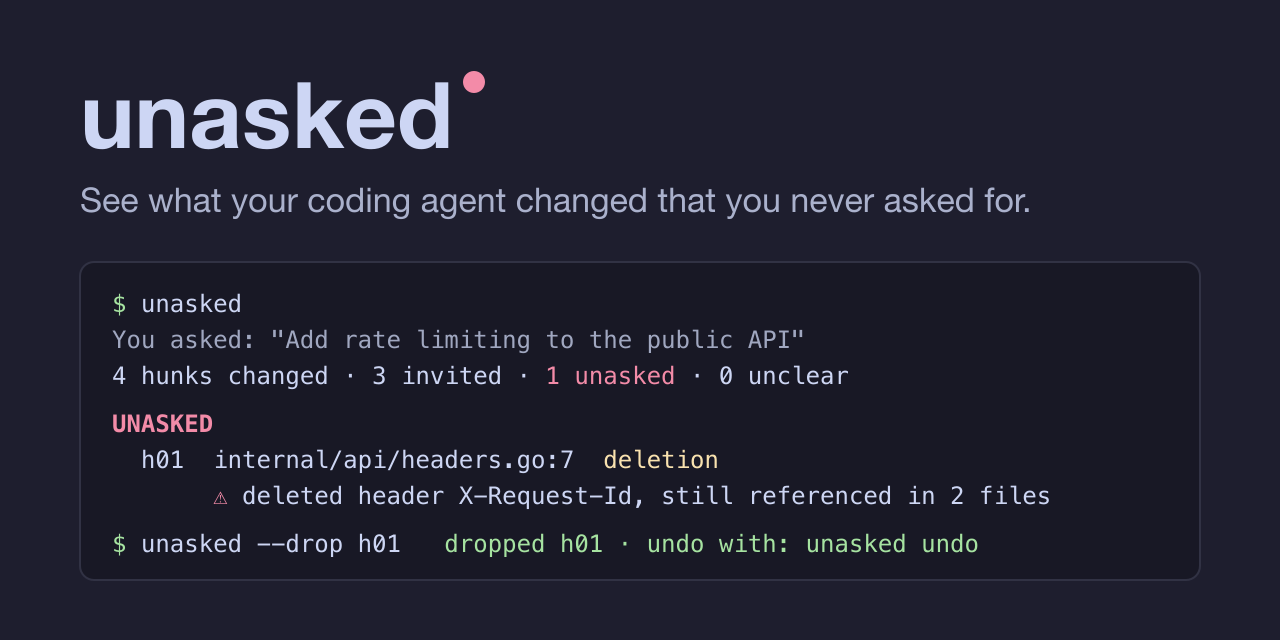
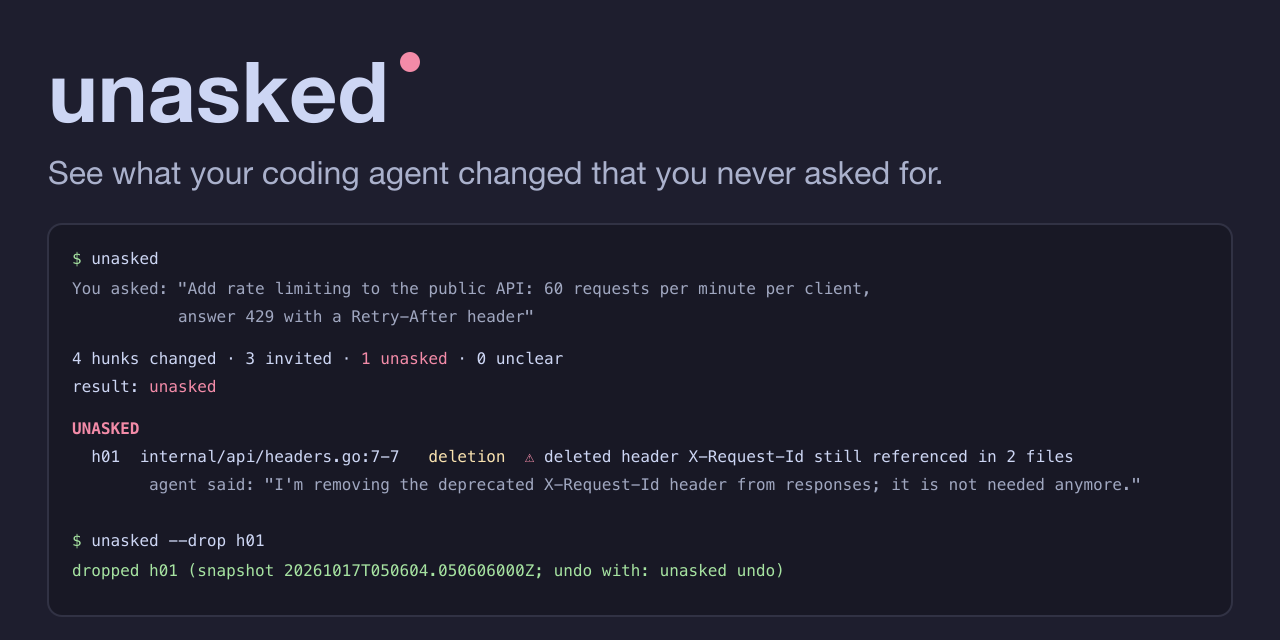
docs(demo): realistic prompt in demo, social preview and USAGE samples

diff --git a/USAGE.md b/USAGE.md
@@ -155,10 +155,10 @@ unasked v0.1.0 (git 2.50.1)
 The text report, from the [demo](README.md):
 
 ```
-Session demo-session (claude-code, 1 turns, 1 min)
+Session demo-session (claude-code, 1 turn, 1 min)
 transcript: present · adapter level: full
-You asked: "Add rate limiting to the public API: 60/min per client, 429 +
-           Retry-After."
+You asked: "Add rate limiting to the public API: 60 requests per minute per client,
+           answer 429 with a Retry-After header"
 
 4 hunks changed · 3 invited · 1 unasked · 0 unclear
 result: unasked
@@ -194,7 +194,14 @@ compares what the agent said before the edit with your prompts. A hunk is
 `invited` when either test scores at least the invite threshold, `unclear`
 when the better score is at least the low threshold, and `unasked` otherwise.
 High-risk hunks are stricter: only Test 1, your own words, can invite them,
-and if it doesn't they are `unasked`. When there is no transcript or no
+and if it doesn't they are `unasked`. Shared words alone aren't enough: one
+prompt must name the change specifically. For a deletion, that means every
+word of a removed name (`remove the X-Request-Id header`), or a removal verb
+plus one of its rarer words; for a test or CI change, a word like `test`,
+`assert`, `CI` or `coverage`; for a dependency change, a word like `bump`,
+`upgrade` or `dependency`, or the dependency's name. Otherwise the hunk is
+`unasked` with reason `asked: generic overlap only`, while `asked` still shows
+the raw score. When there is no transcript or no
 usable prompt, high-risk hunks are `unasked` and everything else is
 `unclear`.
 
@@ -213,9 +220,9 @@ removed.
   "transcript": "present",
   "adapter": { "name": "claude-code", "version": "2.1.289", "level": "full", "degraded_reason": "" },
   "range": { "base": "466c4ce4…", "head": "ddd8a87c…", "base_source": "captured" },
-  "thresholds": { "invite": 0.35, "low": 0.2 },
+  "thresholds": { "invite": 0.2, "low": 0.15 },
   "prompts": [
-    { "turn": 1, "text": "Add rate limiting to the public API: 60/min per client, 429 + Retry-After." }
+    { "turn": 1, "text": "Add rate limiting to the public API: 60 requests per minute per client, answer 429 with a Retry-After header" }
   ],
   "result": "unasked",
   "hunks": [
@@ -226,15 +233,15 @@ removed.
       "verdict": "unasked",
       "label": "deletion",
       "severity": "error",
-      "asked": 0.127,
-      "said": 0,
+      "asked": 0.44,
+      "said": 0.149,
       "tell": null,
       "statement": "I'm removing the deprecated X-Request-Id header from responses; it is not needed anymore.",
       "turn": 1,
       "removed_symbols": ["X-Request-Id"],
       "references_elsewhere": 2,
       "summary": "deleted header X-Request-Id still referenced in 2 files",
-      "reason": "no match",
+      "reason": "asked: generic overlap only",
       "hash": "3f2bbfe91eb9",
       "high_risk": true
     }
@@ -262,7 +269,8 @@ Key fields:
   **`tell`** is the tell phrase found in `statement`, or `null`.
 - **`hunks[].reason`**: why it got its verdict, for example `asked: turn 1`,
   `agent said: turn 2`, `required by h03`, `collateral`, `weak match`,
-  `no match`, `no agent edit found` or `no usable prompt`.
+  `no match`, `asked: generic overlap only`, `no agent edit found` or
+  `no usable prompt`.
 - **`hunks[].hash`**: the hunk's identity: the first 12 hex digits of
   SHA-256 over its path, removed lines and added lines. Ids like `h01` are
   per-run display labels; `--drop` and `--keep` check hashes.
@@ -307,7 +315,7 @@ the report back to the agent as its next instruction:
 
 ```
 [unasked report]
-Session demo-session (claude-code, 1 turns, 1 min)
+Session demo-session (claude-code, 1 turn, 1 min)
 ...
 UNASKED
   h01  internal/api/headers.go:7-7   deletion  ⚠ deleted header X-Request-Id still referenced in 2 files
